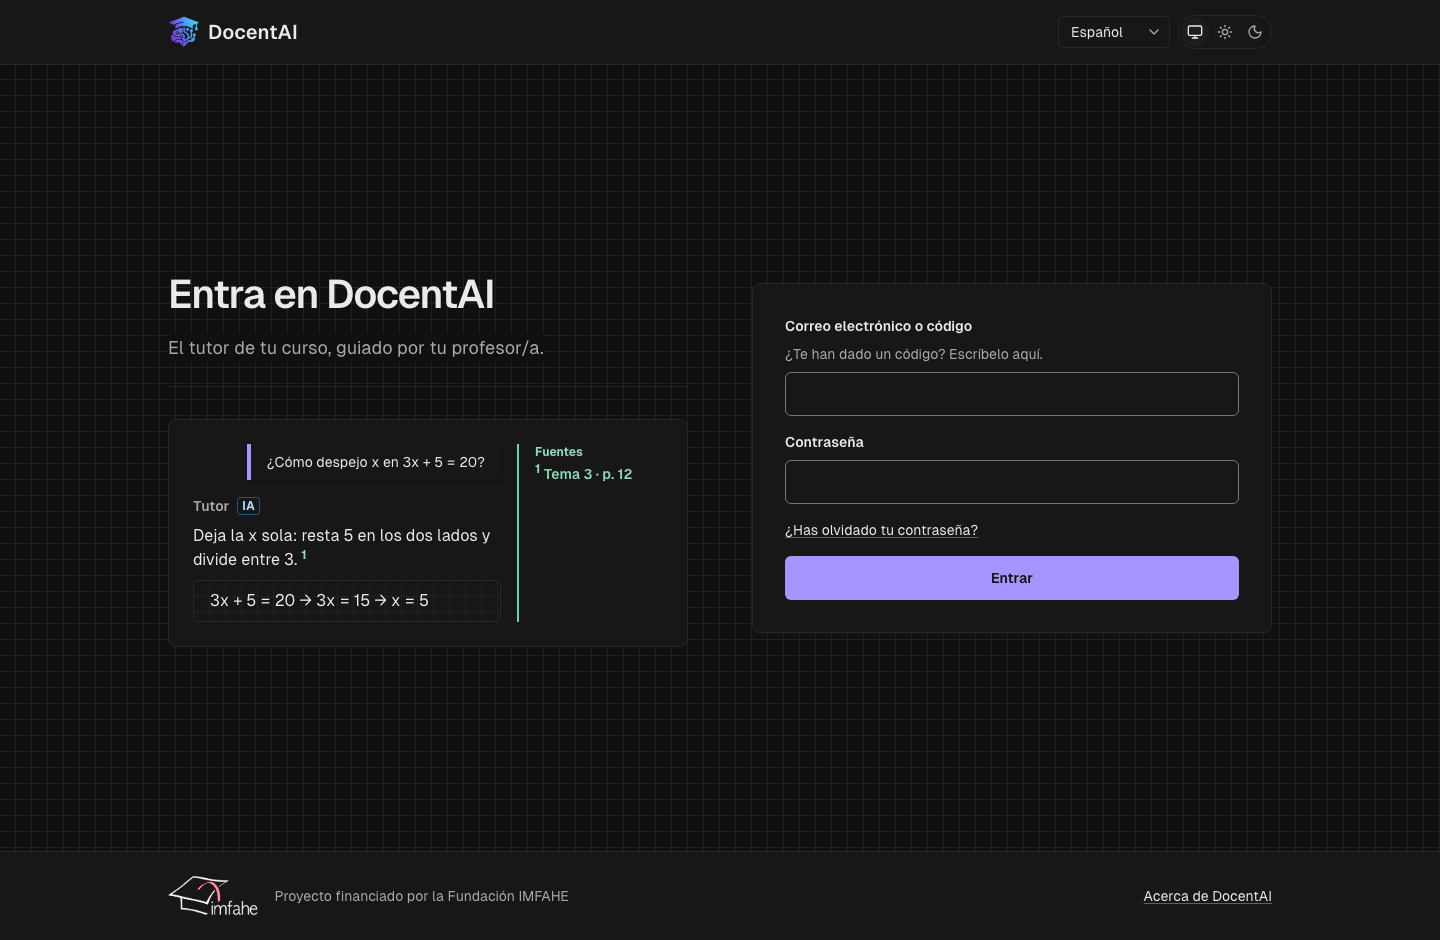
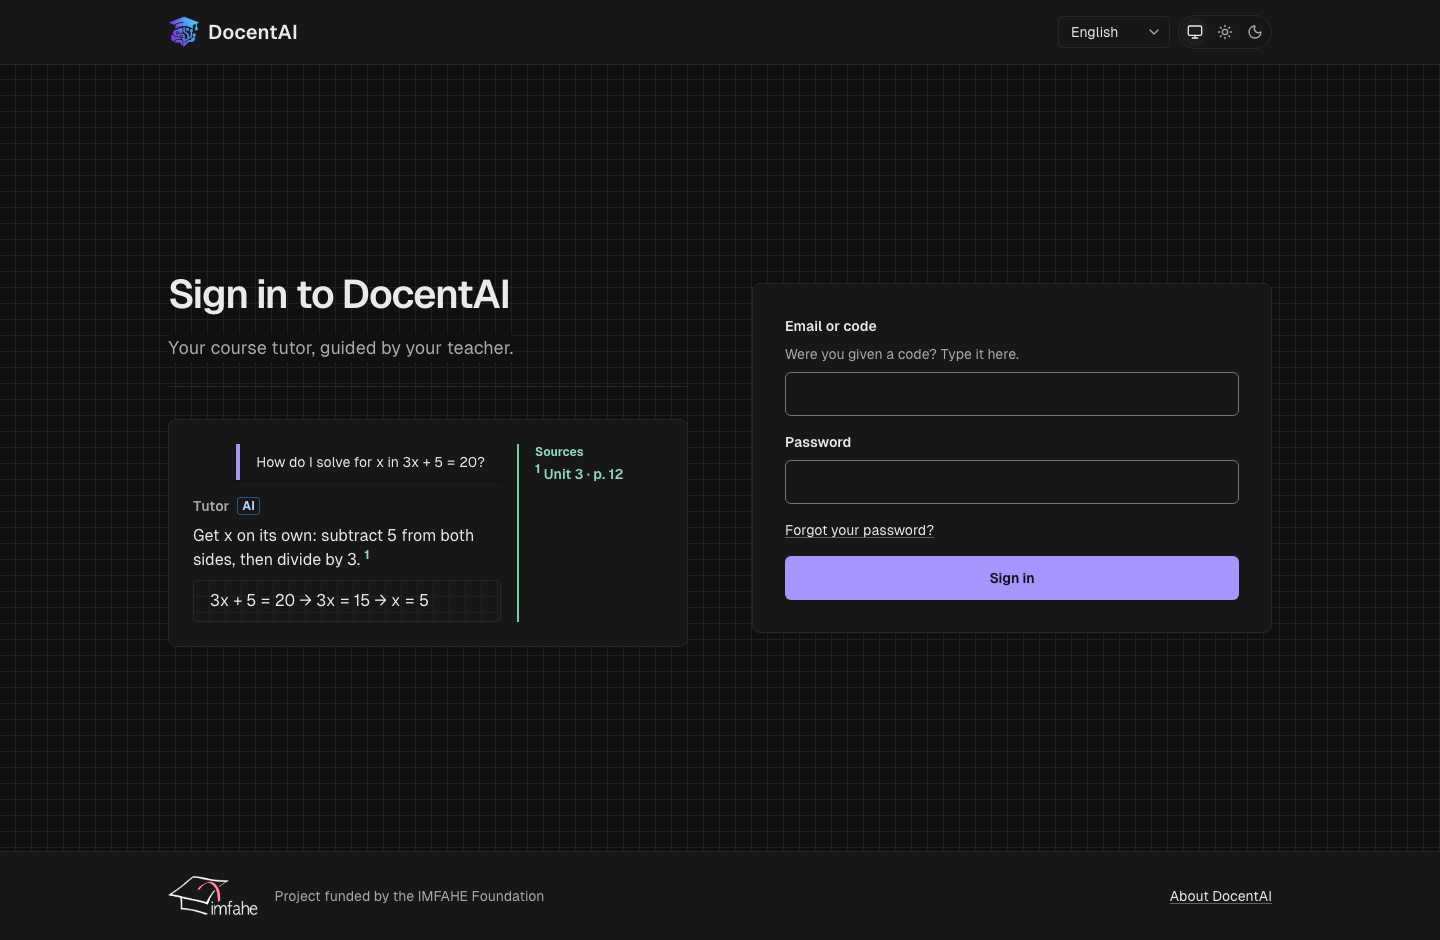
docs(readme): show the platform in English in the screenshots

diff --git a/README.md b/README.md
@@ -22,7 +22,7 @@ for sessions. Spanish is the pilot language; English is complete for every featu
 
 <picture>
   <source media="(prefers-color-scheme: dark)" srcset="docs/images/student-chat-dark.png">
-  <img src="docs/images/student-chat-light.png" alt="A student asks the course tutor how to solve 2x = 4. The tutor answers from the teacher's material and cites it: ecuaciones.md, section 3.2, with a link to the passage. Below, the student's remaining daily messages.">
+  <img src="docs/images/student-chat-light.png" alt="A student asks the course tutor how to solve 2x = 4. The tutor answers from the teacher's material and cites it: equations.md, section 3.2, with a link to the passage. Below, the student's remaining daily messages.">
 </picture>
 
 <table>
